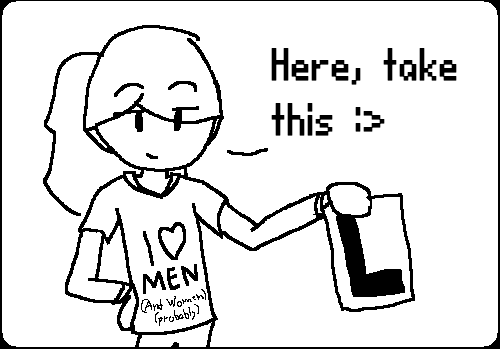
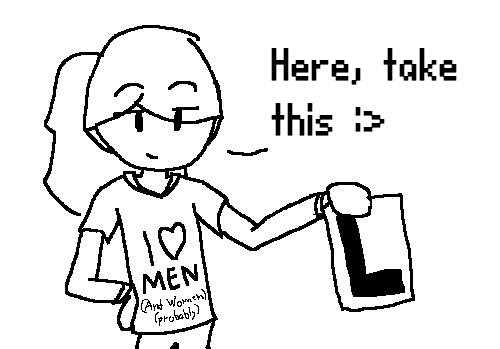
changed the not-found image
i removed the cornered borders from the image and replaced it with border-radius: 30px;

i also added a box-shadow for fancy effect

Changed region(s): [[0.36, 0.0, 1.0, 1.0], [0.0, 0.0, 0.33, 1.0]]

diff --git a/style.css b/style.css
@@ -124,6 +124,8 @@ img.notfound-img {
   display: block;
   margin-left: auto;
   margin-right: auto;
+  border-radius:30px;
+  box-shadow: 0 0 10px 0 #FFF;
 }
 
 .notfound-grid {
